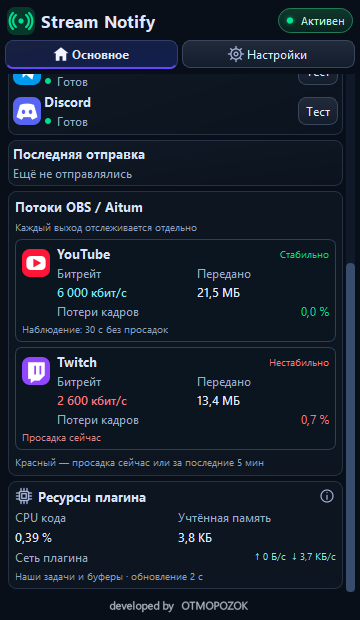
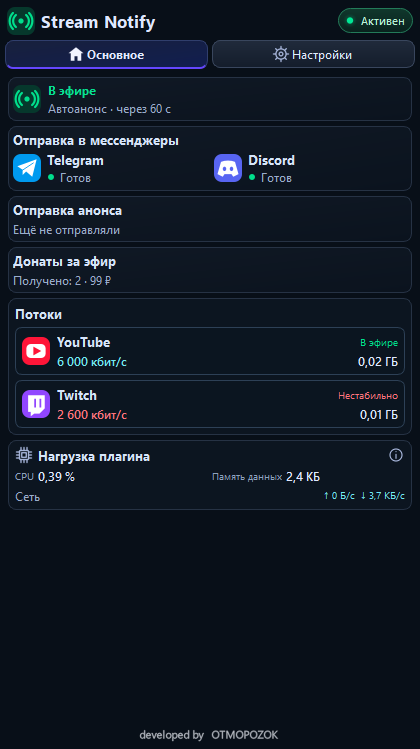
docs: publish compact dashboard build and fresh real Home screenshots [skip ci]

diff --git a/README.md b/README.md
@@ -4,7 +4,7 @@
 
 Нативный плагин для **OBS Studio 33.0.0 x64**: анонсы трансляций и уведомления о донатах с сервисов **DonationAlerts** и **DonatePay** с отправкой в **Telegram и Discord**. Работает внутри OBS, включая сетевые выходы **Aitum Multistream**.
 
-[**Скачать тестовую DLL для Windows**](https://github.com/DIMI0007/stream-notify/actions/runs/40124803403/artifacts/12572751002) ·
+[**Скачать тестовую DLL для Windows**](https://github.com/DIMI0007/stream-notify/actions/runs/40127819775/artifacts/12574155188) ·
 [Установить или обновить](docs/TEST_WINDOWS_RU.md) ·
 [Все сборки](https://github.com/DIMI0007/stream-notify/actions/workflows/build-test-windows.yml)
 
@@ -15,7 +15,7 @@
 - **Есть время передумать.** Выберите задержку 60, 90 или 120 секунд. До отправки текущий анонс можно отменить. На последних 10 секундах часы и цифры плавно пульсируют.
 - **Вы управляете рассылкой.** Включайте Telegram и Discord независимо. В Discord можно отдельно разрешить @everyone — тег появится в конце сообщения; по умолчанию упоминание выключено.
 - **Донаты напоминают об эфире.** Сообщение о поддержке становится повторным анонсом: показывает активность на стриме и приглашает зрителей присоединиться. Вы выбираете минимальную сумму, текст и получателей.
-- **Понятно, какой поток проседает.** Twitch и YouTube показываются отдельно: фактический битрейт, переданные данные, сетевые потери и состояние. Красная отметка сохраняется до пяти минут после проблемы.
+- **Понятно, какой поток проседает.** Twitch и YouTube показываются отдельно: состояние потока, фактический битрейт и переданные ГБ. Красная отметка сохраняется до пяти минут после проблемы.
 - **Всё под рукой в OBS.** Компактный док, русский и английский интерфейс, ручные тесты, предпросмотр и результат доставки для каждого канала.
 
 ### Донат — повод снова пригласить зрителей
@@ -36,14 +36,14 @@
 Пульсация таймера работает только на последних 10 секундах, пока панель видима, и останавливается при смене экрана. Логотипы сервисов встроены в плагин и отображаются без загрузки из интернета.
 Настройки хранятся на вашем компьютере, секреты защищаются Windows DPAPI.
 Компактный режим включён по умолчанию, а док можно расположить рядом с чатом и управлением трансляцией.
-В пустых карточках кнопки «Добавить» и «Настроить» открывают нужное поле настроек. Рядом с готовыми каналами зелёная точка ненадолго приглушается раз в четыре секунды, без анимации самого текста.
+Подключения, ручные тесты и ссылки на эфир находятся в «Настройки → Связь». На первом запуске кнопка «Настроить отправку» ведёт к подключению мессенджеров. Рядом с готовыми каналами зелёная точка ненадолго приглушается раз в четыре секунды, без анимации самого текста.
 «Готов» означает, что данные подключения заполнены; кнопка «Тест» проверяет реальную доставку.
 
 ### Потоки и ресурсы на главной
 
-Под «Последней отправкой» находятся независимые карточки выходов OBS/Aitum и небольшой блок ресурсов Stream Notify. Показатели обновляются раз в две секунды; настройки продолжают сохраняться автоматически, а внизу остаётся только авторская подпись.
+Главная — короткая сводка: статус эфира, готовность Telegram/Discord, был ли отправлен анонс, донаты за эфир, состояние и битрейт каждого выхода. Ссылки и поля ввода оставлены в настройках. Показатели обновляются раз в две секунды; настройки продолжают сохраняться автоматически, а внизу остаётся только авторская подпись.
 
-**CPU кода** измеряет отмеченные синхронные участки плагина. **Учтённая память** показывает вместимость учитываемых живых строк и буферов. **Сеть плагина** относится к данным HTTP/WebSocket уведомлений и отделена от трафика трансляции. Это не счётчики общей нагрузки OBS и не полная RAM DLL/Qt.
+В небольшом блоке «Нагрузка плагина» показаны CPU, память данных и сеть. CPU измеряет отмеченные синхронные участки кода, память данных — вместимость учитываемых строк и буферов, сеть — данные HTTP/WebSocket уведомлений. Это не счётчики общей нагрузки OBS и не полная RAM DLL/Qt.
 
 [Правила просадок, состав измерений и их границы](docs/MONITORING_RU.md).
 
@@ -53,13 +53,10 @@
 
 <table>
 <tr>
-<td align="center" valign="top"><b>Главная: верх панели</b><br><a href="docs/screenshots/home.png"><img src="docs/screenshots/home.png" width="300" alt="Основная панель — Stream Notify"></a><br>Главная страница с мониторингом выходов.</td>
+<td align="center" valign="top"><b>Компактная главная</b><br><a href="docs/screenshots/home.png"><img src="docs/screenshots/home.png" width="300" alt="Основная панель — Stream Notify"></a><br>Статус эфира, мессенджеры, отправка, донаты и потоки — в одной сводке.</td>
 <td align="center" valign="top"><b>Перед отправкой</b><br><a href="docs/screenshots/countdown.png"><img src="docs/screenshots/countdown.png" width="300" alt="Перед отправкой — Stream Notify"></a><br>Обратный отсчёт и отмена текущего анонса.</td>
 </tr>
-<tr>
-<td align="center" valign="top"><b>Потоки и ресурсы</b><br><a href="docs/screenshots/monitoring.png"><img src="docs/screenshots/monitoring.png" width="300" alt="Независимые показатели YouTube и Twitch, ресурсы плагина"></a><br>YouTube стабилен, Twitch проседает; учёт ресурсов плагина расположен ниже.</td>
-<td align="center" valign="top"><b>Что означают показатели</b><br>Каждый выход имеет собственные счётчики и историю последней проблемы. Красная индикация сохраняется до пяти минут после восстановления.<br><a href="docs/MONITORING_RU.md">Описание мониторинга</a></td>
-</tr>
+
 </table>
 
 <details>
@@ -97,17 +94,17 @@
 
 </details>
 
-Все снимки обновлены из реально запущенного Qt-интерфейса этой сборки. В окне используются тестовые выходы и демонстрационные адреса, без настоящих ключей и webhook. Показатели YouTube/Twitch на снимках моделируются для демонстрации независимых состояний; значения ресурсов измерены в тестовом окне и не являются оценкой нагрузки на вашем ПК.
+Снимки получены из реально запущенного Qt-интерфейса. Главная обновлена по последней сборке. В окне используются тестовые выходы и демонстрационные адреса, без настоящих ключей и webhook. Показатели потоков и донаты на снимках заданы тестовыми событиями для демонстрации интерфейса; значения ресурсов измерены в тестовом окне и не являются оценкой нагрузки на вашем ПК.
 Экран успешной доставки показан на демонстрационных данных.
-[Полный набор снимков для разных размеров дока](https://github.com/DIMI0007/stream-notify/actions/runs/40124803403/artifacts/12572661100).
+[Полный набор снимков для разных размеров дока](https://github.com/DIMI0007/stream-notify/actions/runs/40127819775/artifacts/12574275164).
 
 
 <details>
 <summary><b>Первый запуск: с чего начать</b></summary>
 
-Кнопки в пустых карточках ведут сразу к нужному полю, включая прокрутку к ссылке на эфир.
+На главной — только состояния и короткая статистика. «Настроить отправку» открывает подключения; ссылки YouTube/Twitch редактируются в «Настройки → Связь».
 
-<a href="docs/screenshots/home-setup.png"><img src="docs/screenshots/home-setup.png" width="300" alt="Первый запуск Stream Notify: добавить ссылки и настроить получателей"></a>
+<a href="docs/screenshots/home-setup.png"><img src="docs/screenshots/home-setup.png" width="300" alt="Первый запуск Stream Notify: короткая сводка и настройка отправки"></a>
 
 </details>
 
@@ -139,6 +136,8 @@
 | DonationAlerts | Real-time адаптер реализован; получение реальных событий требует проверки на аккаунте |
 | DonatePay | Экспериментальный опрос, выключен по умолчанию; схема валюты и приём реальных событий ещё требуют проверки |
 
+На главной учитываются реальные события донатов за текущий или последний эфир, в том числе ниже порога анонса. Ручные тесты и повторы исключены. Эта сводка сбрасывается при перезапуске OBS; журнал доставки сохраняется.
+
 Ручной тест донатного сообщения проверяет отправку, а не получение нового доната от сервиса.
 Все ключи вводятся только локально в плагине. Ключи и webhook не нужны для CI.
 
@@ -149,7 +148,7 @@
 - [Потоки OBS/Aitum и ресурсы плагина](docs/MONITORING_RU.md)
 - [Рублёвые пороги и файл курсов](docs/CURRENCY_RU.md)
 - [Что проверено](tests/VALIDATION.txt)
-- [Журнал актуальной сборки](https://github.com/DIMI0007/stream-notify/actions/runs/40124803403)
+- [Журнал актуальной сборки](https://github.com/DIMI0007/stream-notify/actions/runs/40127819775)
 - [Архив исходного ТЗ](docs/Stream_Notify_1_0_TZ.md)
 
 CI проверяет сборку, логику валют, Telegram-ссылки, Discord @everyone, навигацию, сохранность значений и неизменность размера окна при переключении донатных вкладок.
